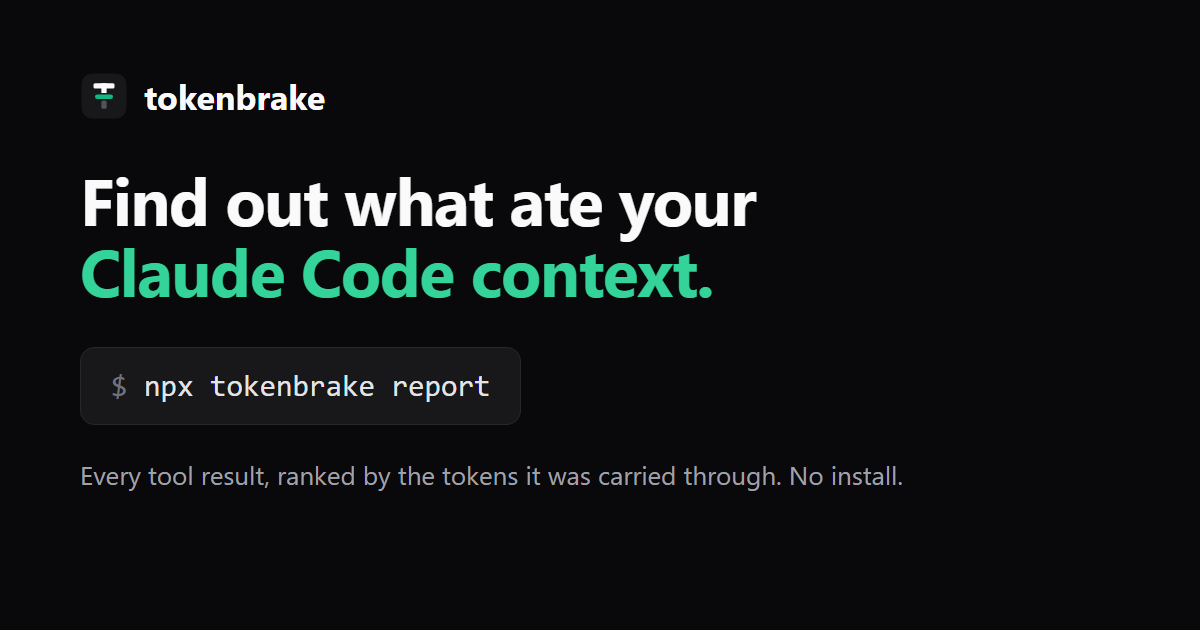
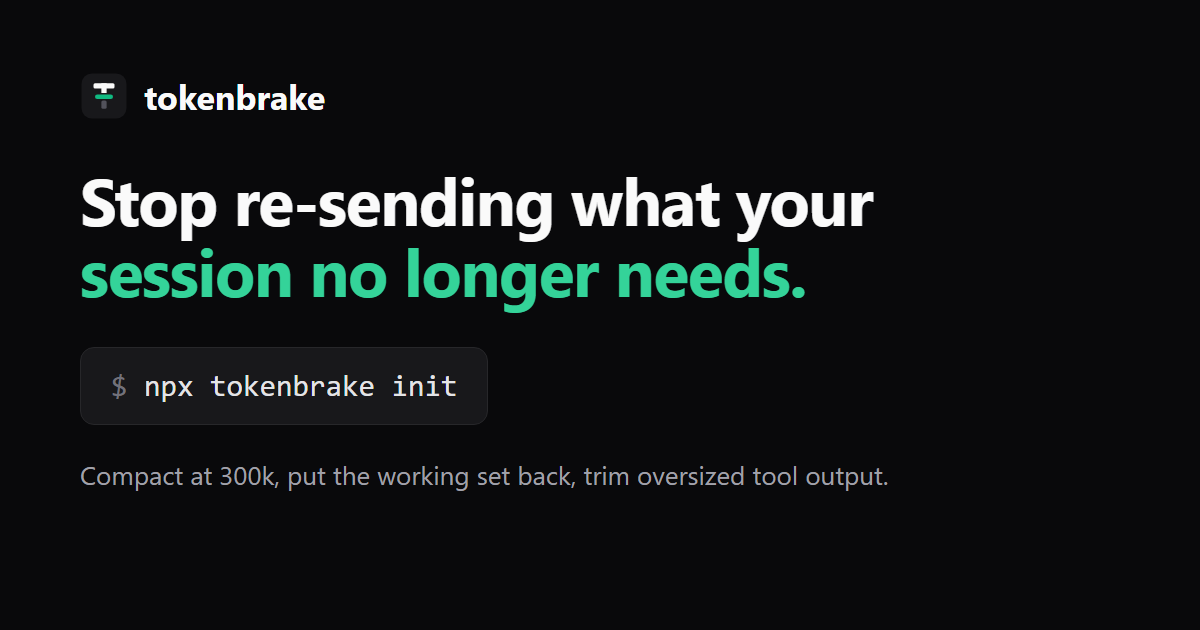
site: lead with the brake; the report is its gauge
The site still told the 0.4.0 story: the report first, "two hooks", no
compaction window, a hand-typed report in the pre-0.6.0 layout, and no
--share. The compaction pair is the first part of the brake that passed a
measurement, and init has installed it since 0.7.0.

The page now opens on `npx tokenbrake init` and stage B's frozen figures
(8 compactions, 47.2 points of the five-hour window saved, at most 13.7
back; a point is 1% of the window), then carried vs. size as the reason,
the four things init installs, what was measured and its limits, the
trim's noise-band record, and the author's --share net of 2026-09-30. The
report follows as the gauge, shown with report.svg (the real 0.6.0 layout
the README already uses) in place of the typed excerpt. The last step is
`report --share` into an issue. Points and tokens only.

og-image.png is re-rendered from og-image.html with headless Edge.
Checked in light, dark and a 360px frame with no horizontal scroll.

Changed region(s): [[0.0617, 0.2714, 0.74, 0.5127], [0.0617, 0.7238, 0.7708, 0.7841], [0.3083, 0.6032, 0.4008, 0.6333]]

diff --git a/site/index.html b/site/index.html
@@ -3,19 +3,19 @@
 <head>
 <meta charset="utf-8">
 <meta name="viewport" content="width=device-width,initial-scale=1">
-<title>tokenbrake — what ate your Claude Code context</title>
-<meta name="description" content="npx tokenbrake report reads the transcripts Claude Code already keeps and ranks every tool result by the tokens it was carried through. The brake — two hooks that trim oversized shell output and cap large reads — is step two, for when your report says there is something to brake.">
+<title>tokenbrake — a brake for what Claude Code sessions carry</title>
+<meta name="description" content="tokenbrake has Claude Code compact at 300k tokens instead of near a million, hands the model its working set back after each compaction, and trims oversized tool output before it enters context. Measured on its author's work: 8 compactions saved 47.2 points of the five-hour window, at most 13.7 came back.">
 <link rel="canonical" href="https://tokenbrake.site/">
 <link rel="icon" type="image/svg+xml" href="/favicon.svg">
 <meta name="theme-color" content="#09090b">
 <meta property="og:type" content="website">
 <meta property="og:url" content="https://tokenbrake.site/">
-<meta property="og:title" content="tokenbrake — find out what ate your Claude Code context">
-<meta property="og:description" content="One command, no install: rank every tool result in a session by the tokens it was carried through, and see how much of that a brake could even reach.">
+<meta property="og:title" content="tokenbrake — stop re-sending what your session no longer needs">
+<meta property="og:description" content="Compact at 300k, put the working set back, trim oversized tool output. One install, every project. The whole record, losses included, is public.">
 <meta property="og:image" content="https://tokenbrake.site/og-image.png">
 <meta property="og:image:width" content="1200">
 <meta property="og:image:height" content="630">
-<meta property="og:image:alt" content="tokenbrake — npx tokenbrake report: what ate your Claude Code context">
+<meta property="og:image:alt" content="tokenbrake — npx tokenbrake init: stop re-sending what your session no longer needs">
 <meta name="twitter:card" content="summary_large_image">
 <meta name="twitter:image" content="https://tokenbrake.site/og-image.png">
 <style>
@@ -50,15 +50,14 @@ h2 { font-size: 24px; letter-spacing: -0.01em; margin: 56px 0 12px; }
 p { margin: 0 0 16px; }
 .lede { font-size: 19px; color: var(--muted); }
 a { color: var(--accent); }
-code { white-space: nowrap; font-family: ui-monospace, "Cascadia Code", Menlo, Consolas, monospace; font-size: 0.92em; background: var(--code-bg); padding: 1px 5px; border-radius: 4px; }
+code { font-family: ui-monospace, "Cascadia Code", Menlo, Consolas, monospace; font-size: 0.92em; background: var(--code-bg); padding: 1px 5px; border-radius: 4px; overflow-wrap: anywhere; }
 pre {
   font-family: ui-monospace, "Cascadia Code", Menlo, Consolas, monospace; font-size: 13.5px; line-height: 1.55;
   background: var(--term-bg); color: var(--term-text); border: 1px solid var(--line); border-radius: 10px;
   padding: 16px; margin: 0 0 16px; overflow-x: auto;
 }
-pre code { white-space: pre; background: none; padding: 0; font-size: inherit; }
+pre code { white-space: pre; background: none; padding: 0; font-size: inherit; overflow-wrap: normal; }
 .dim { color: var(--term-dim); }
-.hi { color: var(--term-hi); }
 .cmd { display: flex; align-items: center; gap: 12px; flex-wrap: wrap; margin: 24px 0 8px; }
 .cmd pre { margin: 0; font-size: 17px; padding: 12px 18px; flex: 0 1 auto; }
 .cmd button {
@@ -67,18 +66,29 @@ pre code { white-space: pre; background: none; padding: 0; font-size: inherit; }
 }
 .cmd button:hover { border-color: var(--accent); }
 .note { color: var(--muted); font-size: 15px; }
-.steps { display: grid; grid-template-columns: 1fr 1fr; gap: 16px; margin: 24px 0; }
-.step { background: var(--surface); border: 1px solid var(--line); border-radius: 12px; padding: 18px; }
-.step b { display: block; font-size: 13px; letter-spacing: 0.06em; text-transform: uppercase; color: var(--accent); margin-bottom: 6px; }
-.step p { margin: 0; }
+.stats { display: grid; grid-template-columns: repeat(3, 1fr); gap: 16px; margin: 40px 0 12px; }
+.stat { background: var(--surface); border: 1px solid var(--line); border-radius: 12px; padding: 16px 18px; }
+.stat b { display: block; font-size: 30px; line-height: 1.15; letter-spacing: -0.02em; font-variant-numeric: tabular-nums; }
+.stat span { display: block; color: var(--muted); font-size: 14px; line-height: 1.45; margin-top: 4px; }
+.stat.hi b { color: var(--accent); }
+ol.parts { list-style: none; padding: 0; margin: 20px 0 16px; counter-reset: part; }
+ol.parts li { counter-increment: part; position: relative; padding-left: 40px; margin-bottom: 14px; }
+ol.parts li::before {
+  content: counter(part); position: absolute; left: 0; top: 1px; width: 26px; height: 26px; border-radius: 50%;
+  border: 1px solid var(--line); background: var(--surface); color: var(--accent); font-size: 13px; font-weight: 700;
+  display: flex; align-items: center; justify-content: center;
+}
 ul { padding-left: 20px; margin: 0 0 16px; }
 li { margin-bottom: 6px; }
+figure { margin: 8px 0 16px; }
+figure img { display: block; width: 100%; height: auto; border-radius: 12px; }
 footer { border-top: 1px solid var(--line); margin-top: 72px; padding-top: 20px; padding-bottom: 40px; color: var(--muted); font-size: 14px; }
 footer a { color: var(--muted); }
 @media (max-width: 600px) {
-  .steps { grid-template-columns: 1fr; }
+  .stats { grid-template-columns: 1fr; gap: 10px; }
   nav a { margin-left: 0; margin-right: 14px; }
   pre { font-size: 12px; }
+  .cmd pre { font-size: 15px; }
 }
 </style>
 </head>
@@ -91,106 +101,115 @@ footer a { color: var(--muted); }
     <a href="https://github.com/33kain/tokenbrake">GitHub</a>
   </nav>
 </header>
-
 <main>
-  <h1>Find out what ate your Claude Code context.</h1>
-  <p class="lede">Then brake it — if your report says there is anything to brake.</p>
-
+  <h1>Stop re-sending what your session no longer needs.</h1>
+  <p class="lede">tokenbrake has Claude Code compact at 300k tokens instead of near a million, hands the model its
+    working set back after each compaction, and trims oversized tool output before it enters context. One install,
+    every project.</p>
   <div class="cmd">
-    <pre><code id="cmd">npx tokenbrake report</code></pre>
-    <button type="button" id="copy">Copy</button>
+    <pre><code id="cmd-init">npx tokenbrake init</code></pre>
+    <button type="button" data-copy="cmd-init">Copy</button>
   </div>
-  <p class="note">No install, no hooks, no config, nothing written anywhere. Node 18+.</p>
+  <p class="note">Node 18+, no dependencies. <code>npx tokenbrake uninstall</code> takes it back out, the compaction
+    window included when <code>init</code> set it.</p>
+
+  <div class="stats">
+    <div class="stat"><b>8</b><span>automatic compactions on the author's real work, Opus 5 and 5.5, over ten days</span></div>
+    <div class="stat hi"><b>47.2 pts</b><span>of the five-hour window they saved; a point is 1% of that window</span></div>
+    <div class="stat"><b>≤ 13.7 pts</b><span>came back: 0.9 in re-reads, up to 12.8 in compaction's own charge</span></div>
+  </div>
+  <p class="note">Pre-registered, on one person's work. The limits are below, and the whole record is in
+    <a href="https://github.com/33kain/tokenbrake/blob/main/EVIDENCE.md">EVIDENCE.md</a>.</p>
 
   <h2>Size is the wrong number. Carried is the right one.</h2>
-  <p>A tool result isn't paid for once. It is re-sent as context on every later request until the session
-    compacts, so a 4k-token file read at request 3 of 100 is about 400k token-reads. <code>report</code> reads the
-    session transcripts Claude Code already keeps under <code>~/.claude/projects/</code> and ranks every tool result
-    by <strong>size × the requests it was carried through</strong>. That puts the <code>cat</code>, <code>Read</code>
-    or test run worth avoiding at the top, where you can see it.</p>
-  <p>This is the report from a real session spent building tokenbrake:</p>
-<pre><code><span class="dim">$</span> npx tokenbrake report
-  487 requests, 443 tool results
-  Context processed: 204.7M tokens across 487 requests (99% read from cache)
-  Tool results entered ~ 140k tokens, carried ~ 41.2M token-reads
+  <p>A tool result isn't paid for once. Every later request re-sends it as context until the session compacts, so a
+    4k-token file read at request 3 of 100 is about 400k token-reads. Most of that comes back from cache, and one cache
+    read weighs little. But on a 1M-context model Claude Code compacts on its own only near 967k tokens, so a long
+    session re-reads a growing context on every request, for hundreds of requests.</p>
+  <p>Compacting earlier cuts that short. The risk is the model losing its place and reading everything again, which
+    is why the window and the working set ship together: each was measured only with the other.</p>
 
-What ate it -- by tokens carried (size x later requests), top 4:
-     size   carried   turns  tool   what
-       4k      <span class="hi">2.0M</span>    445  Read   cli.js
-       4k      <span class="hi">1.9M</span>    445  Read   transcript.js
-       4k      989k    232  Read   guard.js
-       3k      961k    364  Read   README.md
-
-By tool (share of tokens carried):
-  Bash    318 calls   107k entered   30.5M carried   74%
-  Read     24 calls    23k entered    8.2M carried   20%
-
-<span class="hi">Within the guard's reach: 11 of 443 tool results (14% of all carried)</span></code></pre>
-  <p>The last line matters most. The report tells you how much of what you carried a brake could reach at all.
-    When tokenbrake wasn't running, it also tells you whether installing it is worth it for work like yours. Often it
-    isn't, and the report says so.</p>
-
-  <h2>Two steps, in this order</h2>
-  <div class="steps">
-    <div class="step">
-      <b>Step one · the report</b>
-      <p><code>npx tokenbrake report</code> ranks the last session. <code>--all</code> lists every session on disk;
-        <code>--reach</code> shows what share of your carried tokens any trim could act on.</p>
-    </div>
-    <div class="step">
-      <b>Step two · the brake</b>
-      <p><code>npx tokenbrake init</code> installs two Claude Code hooks. They trim oversized shell output and cap
-        unbounded reads of large files before either enters context.</p>
-    </div>
-  </div>
-
-  <h2>What the brake does</h2>
-  <ul>
-    <li><strong>Shell output trim.</strong> Output over 6,000 characters is replaced by its first and last lines,
-      plus up to 20 lines from the middle that look like errors or warnings, with their line numbers. The full output is
-      saved to <code>~/.claude/tokenbrake/out/</code>, and the trimmed result names that path so Claude can read it
-      again. Nothing is rewritten or "compressed".</li>
-    <li><strong>Large-read cap.</strong> A <code>Read</code> with no range on a file over 60 KB becomes the
-      first 300 lines. Claude is told the file's real size and how to page through it.</li>
-    <li><strong>Ledger.</strong> The size of every tool result is appended to a local file. Nothing leaves your
-      machine.</li>
-    <li><strong>Fails open.</strong> Any error inside the guard exits cleanly with no output, and Claude Code
-      carries on unchanged.</li>
-  </ul>
+  <h2>What <code>init</code> installs</h2>
+  <ol class="parts">
+    <li><strong>A 300k compaction window.</strong> Claude Code's own setting, <code>autoCompactWindow</code>, in
+      <code>~/.claude/settings.json</code>. Nothing of tokenbrake's runs inside the compaction, and
+      <code>/autocompact</code> changes it any time. <code>init</code> leaves a window you set yourself alone.</li>
+    <li><strong>The working set, put back.</strong> After each compaction a <code>SessionStart</code> hook hands the
+      model pointers, never file contents: the files edited and read with their line ranges, the last failing command
+      and its first error line, and the task's first words. About 2,000 tokens at most, so the model re-reads what its
+      next step needs instead of searching for its place.</li>
+    <li><strong>A trim on oversized shell output.</strong> Output over 6,000 characters becomes its first and last
+      lines, plus up to 20 lines from the middle that look like errors or warnings, with their line numbers. The full
+      output is saved under <code>~/.claude/tokenbrake/out/</code> and the trimmed result names the path, so Claude
+      can read it back.</li>
+    <li><strong>A cap on large reads.</strong> A <code>Read</code> with no range on a file over 60 KB becomes its first
+      300 lines, and Claude is told the file's real size and how to page through it.</li>
+  </ol>
+  <p>Any error inside the hooks exits with no output, and Claude Code carries on unchanged. The ledger of result sizes
+    stays on your machine. The rest of what tokenbrake can do to context, the MCP, JSON, git diff and re-read knobs,
+    ships off until it is measured.</p>
   <pre><code>npx tokenbrake init      <span class="dim"># user scope: ~/.claude/settings.json, every project</span>
 npx tokenbrake status    <span class="dim"># what is installed, plus one real spawn of each hook</span>
 npx tokenbrake uninstall</code></pre>
-  <p class="note">It also installs as a Claude Code plugin, and it runs in cloud sessions from the environment's setup
-    script. See the <a href="https://github.com/33kain/tokenbrake#install">install section</a>.</p>
+  <p class="note">As a Claude Code plugin it installs the hooks but writes no settings: set <code>/autocompact 300k</code>
+    and <code>compactPrep: true</code> in <code>~/.claude/tokenbrake.json</code> yourself. In cloud sessions it runs
+    from the environment's setup script. See the
+    <a href="https://github.com/33kain/tokenbrake#install">install section</a>.</p>
 
-  <h2>Why there is no percentage on this page</h2>
-  <p>A token-saving percentage in this category means nothing without a control pair: the same task run twice
-    with the tool <strong>off</strong> on both sides. Without one, a saving can't be told apart from the agent
-    simply reading differently that day.</p>
-  <p>tokenbrake ran those controls in a pre-registered 22-session benchmark. Pairs with identical configuration,
-    tool off on both sides, came out up to <strong>42.6% apart</strong> on tokens entered. Runs with the brake entered
-    a median 35.7% fewer tool-result tokens, which is inside that noise. Tokens <em>carried</em> fell in only four of
-    six pairs and rose in two, once by 72.6%, because a trim that sends the model back for what it cut makes the
-    session longer.</p>
-  <p>So tokenbrake doesn't quote a saving. It reports what your own sessions carried and how much of that the brake
-    could reach, and leaves the decision to you. The whole record, losses included, is in
-    <a href="https://github.com/33kain/tokenbrake/blob/main/EVIDENCE.md">EVIDENCE.md</a>.</p>
+  <h2>What was measured, and what wasn't</h2>
+  <p>The window and the working set passed two stages, each written down before its numbers were read.</p>
+  <ul>
+    <li><strong>Stage A, controlled, Opus 5.</strong> The same task with and without the working set: a median 4.18
+      points of the five-hour window against 5.49, and every recall question still answered, 15 of 15.</li>
+    <li><strong>Stage B, the author's real work, 2026-09-20 to 09-29.</strong> 8 automatic compactions saved 47.2 points.
+      Re-reading afterwards took back 0.9, and compaction's own charge 4.0 at its estimate, 12.8 at the pessimistic
+      bound. The stage allowed up to half to come back; at worst 13.7 did. The work never felt worse.</li>
+  </ul>
+  <p>The limits: one person's work, on Opus models with a 1M context. The recovery is inferred, and the saving assumes
+    the same requests would have run without the earlier compaction. Headless <code>claude -p</code> compacts at 300k
+    too, and that was not measured.</p>
+  <p>The trim is the smaller lever, and its record is thinner. In a pre-registered 22-session benchmark, pairs with the
+    tool off on both sides came out up to 42.6% apart on tokens entered. Runs with the trim entered a median 35.7% fewer
+    tool-result tokens, inside that noise, and tokens carried rose in two of six pairs, once by 72.6%, because a trim
+    that sends the model back for what it cut makes the session longer. On the author's machine, 100 sessions to
+    2026-09-30 put the brake's net at about 55.6 points: 52.6 from the compactions, 3.0 from the trim.</p>
+
+  <h2>The gauge: <code>npx tokenbrake report</code></h2>
+  <p>No install needed. <code>report</code> reads the transcripts Claude Code already keeps under
+    <code>~/.claude/projects/</code> and ranks every tool result by <strong>size × the requests it was carried
+    through</strong>. When the brake ran, it shows what it lowered, less what the model pulled back, against the whole
+    session. <code>--compactions</code> prices every compaction; <code>--detail</code> is everything else.</p>
+  <figure>
+    <img src="/report.svg" width="827" height="746" loading="lazy"
+      alt="tokenbrake report on a real session: context now, what the session processed, where the tool output went, the five heaviest results, and what the brake lowered, net">
+  </figure>
+
+  <h2>Send your numbers</h2>
+  <p>Everything above was measured on one machine. The next measurement needs other people's. After a few days with the
+    brake installed, run:</p>
+  <div class="cmd">
+    <pre><code id="cmd-share">npx tokenbrake report --share</code></pre>
+    <button type="button" data-copy="cmd-share">Copy</button>
+  </div>
+  <p>It pools every session on your machine into one block of numbers: versions, the compaction window, tokens
+    processed, the five-hour window by kind, the compactions, what the trim kept out and what came back, and the
+    brake's net. No path, command, file name, session id or line of a transcript. Paste it into
+    <a href="https://github.com/33kain/tokenbrake/issues/new?title=report%20--share">an issue</a>, losses included.</p>
 </main>
-
 <footer>
   MIT licensed · <a href="https://github.com/33kain/tokenbrake">github.com/33kain/tokenbrake</a> ·
   <a href="https://www.npmjs.com/package/tokenbrake">npm</a>
 </footer>
-
 <script>
-document.getElementById('copy').addEventListener('click', function () {
-  var b = this;
-  try {
-    navigator.clipboard.writeText(document.getElementById('cmd').textContent).then(function () {
-      b.textContent = 'Copied';
-      setTimeout(function () { b.textContent = 'Copy'; }, 1500);
-    }, function () {});
-  } catch (e) {}
+document.querySelectorAll('[data-copy]').forEach(function (b) {
+  b.addEventListener('click', function () {
+    try {
+      navigator.clipboard.writeText(document.getElementById(b.dataset.copy).textContent).then(function () {
+        b.textContent = 'Copied';
+        setTimeout(function () { b.textContent = 'Copy'; }, 1500);
+      }, function () {});
+    } catch (e) {}
+  });
 });
 </script>
 </body>

diff --git a/site/og-image.html b/site/og-image.html
@@ -15,7 +15,7 @@ pre b { color: #71717a; font-weight: 400; }
 p { font-size: 26px; color: #a1a1aa; margin: 32px 0 0; }
 </style></head><body><div class="wrap">
 <div class="brand"><svg viewBox="0 0 64 64"><rect x="2" y="2" width="60" height="60" rx="14" fill="#18181b"/><rect x="18" y="15" width="28" height="7" rx="2" fill="#FAFAFA"/><rect x="28.5" y="15" width="7" height="13" fill="#FAFAFA"/><rect x="20" y="30" width="24" height="6" rx="3" fill="#10B981"/><rect x="28.5" y="38" width="7" height="11" rx="2" fill="#52525B"/></svg>tokenbrake</div>
-<h1>Find out what ate your<br><span>Claude Code context.</span></h1>
-<pre><b>$</b> npx tokenbrake report</pre>
-<p>Every tool result, ranked by the tokens it was carried through. No install.</p>
+<h1>Stop re-sending what your<br><span>session no longer needs.</span></h1>
+<pre><b>$</b> npx tokenbrake init</pre>
+<p>Compact at 300k, put the working set back, trim oversized tool output.</p>
 </div></body></html>

diff --git a/HANDOFF.md b/HANDOFF.md
@@ -2111,3 +2111,21 @@ Branch `claude/release-0.9.0`. #144 is merged. 0.9.0 carries `report --share` (#
 
 Next: the owner's Publish run. Then `npx tokenbrake report --share` works everywhere, and the first outside block
 (the owner's friend) can come from it instead of `npx github:33kain/tokenbrake`.
+
+## Site: the brake first — 2026-09-30
+
+Branch `claude/site-brake-first`. 0.9.0 is on npm, so everything the site names runs from the registry. The site
+still told the 0.4.0 story (PR #86): the report first, "two hooks", no compaction window, a hand-typed report in the
+pre-0.6.0 layout, and no `--share`. The owner's own view since 2026-09-18 is that the report is the gauge, not the
+product, and the pair is the first part of the brake that passed a measurement.
+
+- **Order:** `npx tokenbrake init` at the top; stage B's frozen numbers as three figures (8 compactions, 47.2 points
+  saved, at most 13.7 back; a point is 1% of the five-hour window); carried vs. size as the reason; the four things
+  `init` installs; what was measured and the limits (one person's work, Opus on the 1M context, `claude -p`
+  unmeasured), the trim's noise-band record, and the author's `--share` net of 2026-09-30 (55.6 = 52.6 compactions +
+  3.0 trim); the report as the gauge with `report.svg` (the real 0.6.0 layout, which the README already uses) in place
+  of the typed excerpt; `report --share` into an issue as the last step.
+- `og-image.png` re-rendered from `og-image.html` with headless Edge (the command is in that file's header).
+- Checked in headless Edge: light, dark, and a 360px frame with no horizontal scroll.
+- **Open:** the README still opens on the report. The two should tell the same story; that is the owner's call, in
+  its own PR.
